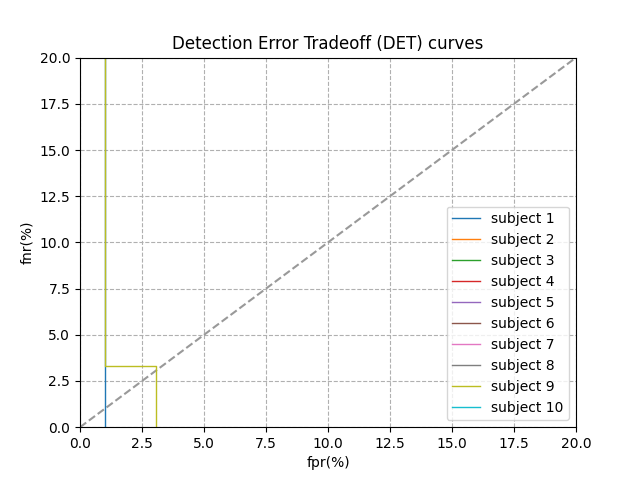
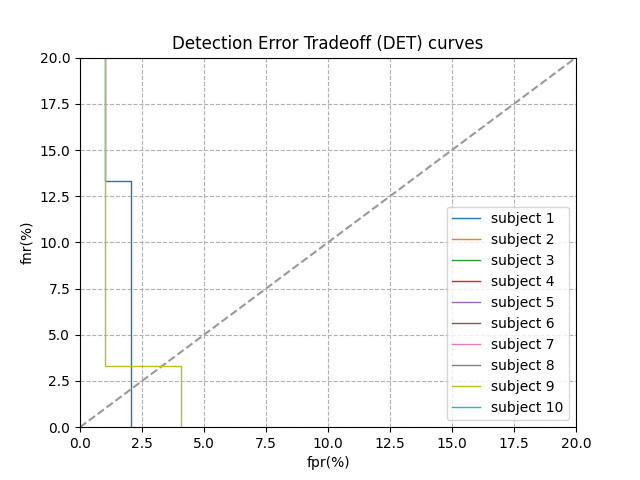
Update Experiment

Changed region(s): [[0.1562, 0.375, 0.25, 0.875], [0.2812, 0.7812, 0.3125, 0.875], [0.25, 0.75, 0.2812, 0.7812]]

diff --git a/codes/util/data_loader.py b/codes/util/data_loader.py
@@ -65,7 +65,7 @@ class BCI2aDataset(Dataset):
             # self.plot(self.data_return, "KMAR.png")
             self.channelSelect()
             self.data_return = self.data_return[:,self.channel_selected,:]
-            for i in [x for x in range(1,6) if x != subject]:
+            for i in [x for x in range(1,5) if x != subject]:
                 negative_data, negative_class = self.get_subject_data(i, path, No_channels, No_trials, Window_Length, sample_ratio=2, label=0, train=train)
                 # negative_data = self.KMAR_PIC(negative_data)
                 negative_data = negative_data[:,self.channel_selected,:]
@@ -75,7 +75,7 @@ class BCI2aDataset(Dataset):
             self.data_return, self.class_return = self.get_subject_data(subject, path, No_channels, No_trials, Window_Length, sample_ratio=1, label=1, train=train)
             # self.data_return = self.KMAR_PIC(self.data_return)
             self.data_return = self.data_return[:,self.channel_selected,:]
-            for i in [x for x in range(1,6) if x != subject]:
+            for i in [x for x in range(1,5) if x != subject]:
                 negative_data, negative_class = self.get_subject_data(i, path, No_channels, No_trials, Window_Length, sample_ratio=2, label=0, train=train)
                 # negative_data = self.KMAR_PIC(negative_data)
                 negative_data = negative_data[:,self.channel_selected,:]
@@ -85,7 +85,7 @@ class BCI2aDataset(Dataset):
             self.data_return, self.class_return = self.get_subject_data(subject, path, No_channels, No_trials, Window_Length, sample_ratio=1, label=1, train=train)
             # self.data_return = self.KMAR_PIC(self.data_return)
             self.data_return = self.data_return[:,self.channel_selected,:]
-            for i in [x for x in range(6,10) if x != subject]:
+            for i in [x for x in range(5,10) if x != subject]:
                 negative_data, negative_class = self.get_subject_data(i, path, No_channels, No_trials, Window_Length, sample_ratio=2, label=0, train=train)
                 # negative_data = self.KMAR_PIC(negative_data)
                 negative_data = negative_data[:,self.channel_selected,:]
@@ -291,32 +291,32 @@ class PhysioDataset(Dataset):
             # self.plot(self.data_return, "KMAR.png")
             self.channelSelect()
             self.data_return = self.data_return[:,self.channel_selected,:]
-            for i in [x for x in range(1,51) if x != subject]:
+            for i in [x for x in range(1,21) if x != subject]:
                 negative_data, negative_class = self.get_subject_data(i, path, No_channels, label=0, train=train)
                 negative_data = self.KMAR_PIC(negative_data)
                 negative_data = negative_data[:,self.channel_selected,:]
-                self.data_return = np.concatenate((self.data_return, negative_data[:2, :, :]), axis=0)
-                self.class_return = np.concatenate((self.class_return, negative_class[:2]), axis=0)
+                self.data_return = np.concatenate((self.data_return, negative_data[:5, :, :]), axis=0)
+                self.class_return = np.concatenate((self.class_return, negative_class[:5]), axis=0)
         elif train == 'intra_test':
             self.data_return, self.class_return = self.get_subject_data(subject, path, No_channels, label=1, train=train)
             self.data_return = self.KMAR_PIC(self.data_return)
             self.data_return = self.data_return[:,self.channel_selected,:]
-            for i in [x for x in range(1,51) if x != subject]:
+            for i in [x for x in range(1,21) if x != subject]:
                 negative_data, negative_class = self.get_subject_data(i, path, No_channels, label=0, train=train)
                 negative_data = self.KMAR_PIC(negative_data)
                 negative_data = negative_data[:,self.channel_selected,:]
-                self.data_return = np.concatenate((self.data_return, negative_data[:2, :, :]), axis=0)
-                self.class_return = np.concatenate((self.class_return, negative_class[:2]), axis=0)
+                self.data_return = np.concatenate((self.data_return, negative_data[:5, :, :]), axis=0)
+                self.class_return = np.concatenate((self.class_return, negative_class[:5]), axis=0)
         elif train == 'inter_test':
             self.data_return, self.class_return = self.get_subject_data(subject, path, No_channels, label=1, train=train)
             self.data_return = self.KMAR_PIC(self.data_return)
             self.data_return = self.data_return[:,self.channel_selected,:]
-            for i in [x for x in range(51,100) if x != subject and x not in [88,92]]:
+            for i in [x for x in range(21,40) if x != subject and x not in [88,92]]:
                 negative_data, negative_class = self.get_subject_data(i, path, No_channels, label=0, train=train)
                 negative_data = self.KMAR_PIC(negative_data)
                 negative_data = negative_data[:,self.channel_selected,:]
-                self.data_return = np.concatenate((self.data_return, negative_data[:2, :, :]), axis=0)
-                self.class_return = np.concatenate((self.class_return, negative_class[:2]), axis=0)
+                self.data_return = np.concatenate((self.data_return, negative_data[:5, :, :]), axis=0)
+                self.class_return = np.concatenate((self.class_return, negative_class[:5]), axis=0)
 
     def __len__(self):
         return self.data_return.shape[0]
@@ -436,10 +436,10 @@ class PhysioDataset(Dataset):
         channelSelection = ChannelSelection()
         channelCount = np.zeros(data.shape[1])
         for i in range(data.shape[0]):
-            trial_channel = channelSelection.select(data[i,:,:], 10)
+            trial_channel = channelSelection.select(data[i,:,:], 32)
             for chan in trial_channel:
                 channelCount[chan] = channelCount[chan] + 1
-        self.channel_selected = np.argpartition(channelCount, -10)[-10:]
+        self.channel_selected = np.argpartition(channelCount, -32)[-32:]
 
     def channels(self):
         return self.channel_selected

diff --git a/codes/main.py b/codes/main.py
@@ -14,9 +14,9 @@ print('Using {} device'.format(device))
 
 learning_rate = 0.001
 batch_size = 4
-subject = 1
-# data_path = "../data/physionet/physionet.org/files/eegmmidb/1.0.0"
-data_path = "../data/"
+subject = 7
+data_path = "../data/physionet/physionet.org/files/eegmmidb/1.0.0"
+# data_path = "../data/"
 epochs = 300
 weight_decay = 0.01
 trained_model_path = "../trained/5/"
@@ -65,39 +65,49 @@ def test(dataloader, model, loss_fn, epoch):
     #     torch.save(model.state_dict(), trained_model_path+"{}_trained_{}.pth".format(subject, epoch))
 
 if __name__ == '__main__':
-    filterTransform = filterBank([[4,8],[8,12],[12,16],[16,20],[20,24],[24,28],[28,32],[32,36],[36,40]], 250)
+    # filterTransform = filterBank([[4,8],[8,12],[12,16],[16,20],[20,24],[24,28],[28,32],[32,36],[36,40]], 160)
     
-    train_data = BCI2aDataset(subject=subject, path=data_path, train="train", transform=filterTransform)
-    train_dataloader = DataLoader(train_data, batch_size=batch_size, shuffle=True, drop_last=True) 
-    channels = train_data.channels()
+    # train_data = PhysioDataset(subject=subject, path=data_path, train="train", transform=filterTransform)
+    # train_dataloader = DataLoader(train_data, batch_size=batch_size, shuffle=True, drop_last=True) 
 
-    # save channels
-    with open(str(subject)+'.txt', 'w') as filehandle:
-        for channel in channels:
-            filehandle.write('%s\n' % channel)
+    # # train_data = BCI2aDataset(subject=subject, path=data_path, train="train", transform=filterTransform)
+    # # train_dataloader = DataLoader(train_data, batch_size=batch_size, shuffle=True, drop_last=True) 
+    # channels = train_data.channels()
 
-    intra_test_data = BCI2aDataset(subject=subject, path=data_path, train="intra_test", transform=filterTransform, channels=channels)
-    intra_test_dataloader = DataLoader(intra_test_data, batch_size=batch_size, shuffle=True, drop_last=True)
+    # # save channels
+    # with open(str(subject)+'.txt', 'w') as filehandle:
+    #     for channel in channels:
+    #         filehandle.write('%s\n' % channel)
 
-    inter_test_data = BCI2aDataset(subject=subject, path=data_path, train="inter_test", transform=filterTransform, channels=channels)
-    inter_test_dataloader = DataLoader(inter_test_data, batch_size=batch_size, shuffle=True, drop_last=True)
+    # # intra_test_data = BCI2aDataset(subject=subject, path=data_path, train="intra_test", transform=filterTransform, channels=channels)
+    # # intra_test_dataloader = DataLoader(intra_test_data, batch_size=batch_size, shuffle=True, drop_last=True)
 
-    model = FBCNet(nChan=12).to(device)
-    # model = CP_MixedNet().to(device)
-    loss_fn = nn.NLLLoss()
-    optimizer = torch.optim.Adam(model.parameters(), lr=learning_rate, weight_decay=weight_decay)
-    exp_lr_scheduler = lr_scheduler.StepLR(optimizer, step_size=40, gamma=0.1)
-    best_intra_acc = 0
-    best_inter_acc = 0
+    # # inter_test_data = BCI2aDataset(subject=subject, path=data_path, train="inter_test", transform=filterTransform, channels=channels)
+    # # inter_test_dataloader = DataLoader(inter_test_data, batch_size=batch_size, shuffle=True, drop_last=True)
 
-    for t in range(epochs):
-        print(f"Epoch {t+1}\n-------------------------------")
-        train(train_dataloader, model, loss_fn, optimizer)
-        exp_lr_scheduler.step()
-        if (t > 50):
-            intra_acc = test(intra_test_dataloader, model, loss_fn, t)
-            inter_acc = test(inter_test_dataloader, model, loss_fn, t)
-            if t > 250 and inter_acc >= best_inter_acc:
-                best_inter_acc = inter_acc
-                torch.save(model.state_dict(), "../trained/"+str(subject)+"_"+str(intra_acc)+"_"+str(inter_acc)+"_5"+".pth")
-    print("Done!")
+    # intra_test_data = PhysioDataset(subject=subject, path=data_path, train="intra_test", transform=filterTransform, channels=channels)
+    # intra_test_dataloader = DataLoader(intra_test_data, batch_size=batch_size, shuffle=True, drop_last=True)
+
+    # inter_test_data = PhysioDataset(subject=subject, path=data_path, train="inter_test", transform=filterTransform, channels=channels)
+    # inter_test_dataloader = DataLoader(inter_test_data, batch_size=batch_size, shuffle=True, drop_last=True)
+
+    model = FBCNet(nChan=64).to(device)
+    pytorch_total_params = sum(p.numel() for p in model.parameters())
+    print(pytorch_total_params)
+    # loss_fn = nn.NLLLoss()
+    # optimizer = torch.optim.Adam(model.parameters(), lr=learning_rate, weight_decay=weight_decay)
+    # exp_lr_scheduler = lr_scheduler.StepLR(optimizer, step_size=40, gamma=0.1)
+    # best_intra_acc = 0
+    # best_inter_acc = 0
+
+    # for t in range(epochs):
+    #     print(f"Epoch {t+1}\n-------------------------------")
+    #     train(train_dataloader, model, loss_fn, optimizer)
+    #     exp_lr_scheduler.step()
+    #     if (t > 50):
+    #         intra_acc = test(intra_test_dataloader, model, loss_fn, t)
+    #         inter_acc = test(inter_test_dataloader, model, loss_fn, t)
+    #         if t > 250 and inter_acc >= best_inter_acc:
+    #             best_inter_acc = inter_acc
+    #             torch.save(model.state_dict(), "../trained/"+str(subject)+"_"+str(intra_acc)+"_"+str(inter_acc)+"_20"+".pth")
+    # print("Done!")

diff --git a/codes/valid.py b/codes/valid.py
@@ -1,5 +1,6 @@
 import torch
 import glob
+import os
 import numpy as np
 from torch import nn
 from sklearn.metrics import det_curve, roc_curve
@@ -11,17 +12,22 @@ import matplotlib.pyplot as plt
 from scipy.optimize import brentq
 from scipy.interpolate import interp1d
 
+from collections import Counter
+
+
+os.environ["CUDA_VISIBLE_DEVICES"]="0"
 device = 'cuda' if torch.cuda.is_available() else 'cpu'
 print('Using {} device'.format(device))
 
 data_path = "../data/physionet/physionet.org/files/eegmmidb/1.0.0"
+# data_path = "../data/"
 # subject = 4
 batch_size = 4
 # model = "../trained/"+"4_*_50.pth"
 # channels_file = "../trained/4.txt"
 
 def val(dataloader, model, subject):
-    net = FBCNet(nChan=10).to(device)
+    net = FBCNet(nChan=32).to(device)
     net.load_state_dict(torch.load(glob.glob(model)[0], map_location=device))
     net.eval()
     scores = []
@@ -62,24 +68,26 @@ def val(dataloader, model, subject):
     return EER
 
 if __name__ == '__main__':
-    filterTransform = filterBank([[4,8],[8,12],[12,16],[16,20],[20,24],[24,28],[28,32],[32,36],[36,40]], 160)
+    # filterTransform = filterBank([[4,8],[8,12],[12,16],[16,20],[20,24],[24,28],[28,32],[32,36],[36,40]], 160)
 
-    EER = []
+    # EER = []
 
-    plt.plot([0, 20], [0, 20], '--', color=(0.6, 0.6, 0.6))
-    plt.title('Detection Error Tradeoff (DET) curves')
-    plt.grid(linestyle='--')
-    plt.xlim([0,20])
-    plt.ylim([0,20])
-    plt.xlabel("fpr(%)")
-    plt.ylabel("fnr(%)")
+    # plt.plot([0, 20], [0, 20], '--', color=(0.6, 0.6, 0.6))
+    # plt.title('Detection Error Tradeoff (DET) curves')
+    # plt.grid(linestyle='--')
+    # plt.xlim([0,20])
+    # plt.ylim([0,20])
+    # plt.xlabel("fpr(%)")
+    # plt.ylabel("fnr(%)")
+
+    channels = []
 
     for subject in range(1,11):
-        model = "../trained/"+"50/"+str(subject)+"_*_50.pth"
+        # model = "../trained/"+"32c/"+str(subject)+"_*_20.pth"
         channels_file = "../trained/"+"50/"+str(subject)+".txt"
 
         # define an empty list
-        channels = []
+        # channels = []
         # open file and read the content in a list
         with open(channels_file, 'r') as filehandle:
             for line in filehandle:
@@ -87,19 +95,30 @@ if __name__ == '__main__':
                 currentPlace = line[:-1]
                 # add item to the list
                 channels.append(int(currentPlace))
-        
-        intra_test_data = PhysioDataset(subject=subject, path=data_path, train="intra_test", transform=filterTransform, channels=channels)
-        intra_test_dataloader = DataLoader(intra_test_data, batch_size=batch_size, shuffle=True, drop_last=True)
 
-        # inter_test_data = PhysioDataset(subject=subject, path=data_path, train="inter_test", transform=filterTransform, channels=channels)
-        # inter_test_dataloader = DataLoader(inter_test_data, batch_size=batch_size, shuffle=True, drop_last=True)
+    c = Counter(channels)
+    print(c.most_common(10))
+
         
-        EER.append(val(intra_test_dataloader, model, subject))
+    #     # intra_test_data = PhysioDataset(subject=subject, path=data_path, train="intra_test", transform=filterTransform, channels=channels)
+    #     # intra_test_dataloader = DataLoader(intra_test_data, batch_size=batch_size, shuffle=True, drop_last=True)
+
+    #     inter_test_data = PhysioDataset(subject=subject, path=data_path, train="inter_test", transform=filterTransform, channels=channels)
+    #     inter_test_dataloader = DataLoader(inter_test_data, batch_size=batch_size, shuffle=True, drop_last=True)
+
+    #     # intra_test_data = BCI2aDataset(subject=subject, path=data_path, train="intra_test", transform=filterTransform, channels=channels)
+    #     # intra_test_dataloader = DataLoader(intra_test_data, batch_size=batch_size, shuffle=True, drop_last=True)
+
+    #     # inter_test_data = BCI2aDataset(subject=subject, path=data_path, train="inter_test", transform=filterTransform, channels=channels)
+    #     # inter_test_dataloader = DataLoader(inter_test_data, batch_size=batch_size, shuffle=True, drop_last=True)
+
+        
+    #     EER.append(val(inter_test_dataloader, model, subject))
     
-    with open('EER.txt', 'w') as filehandle:
-        for i in EER:
-            filehandle.write('%s\n' % i)
+    # with open('EER_32c_20_inter.txt', 'w') as filehandle:
+    #     for i in EER:
+    #         filehandle.write('%s\n' % i)
     
-    plt.legend()
-    plt.savefig("test_result_50")
-    print(EER)
+    # plt.legend()
+    # plt.savefig("test_result_inter_32c_20")
+    # print(EER)
